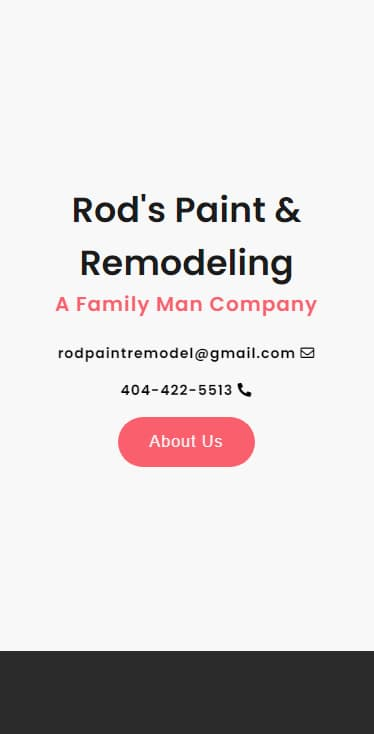
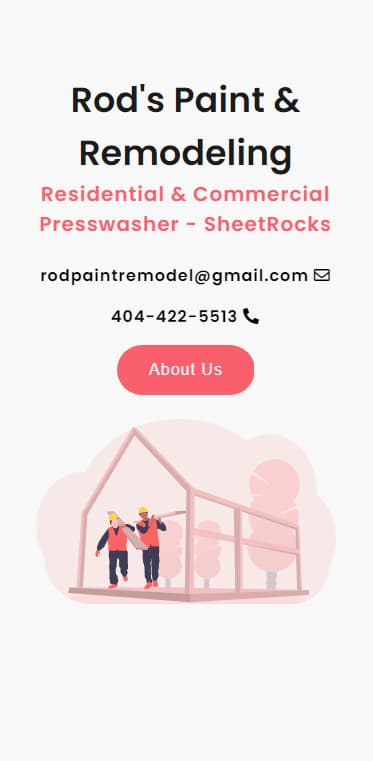
added Link to the official rod painting site. Fixed bug with about section (it was weird layout when screen reached from 960pc-1250px. Replaced Rodpainting mobile site picture with a new updated one

diff --git a/scss/_layout.scss b/scss/_layout.scss
@@ -404,25 +404,25 @@ html {
   transform: translateY(80%) translateX(80%);
 }
 
-.Card-1_container {
-  background: $black2;
-  color: $white;
+// .Card-1_container {
+//   background: $black2;
+//   color: $white;
+// 
+//   div {
+//     color: $white;
+//     h2 {
+//       color: inherit;
+//     }
 
-  div {
-    color: $white;
-    h2 {
-      color: inherit;
-    }
-
-    p {
-      color: $white;
-      font-weight: weight(regular);
-    }
-    a {
-      color: inherit;
-    }
-  }
-}
+//     p {
+//       color: $white;
+//       font-weight: weight(regular);
+//     }
+//     a {
+//       color: inherit;
+//     }
+//   }
+// }
 
 .Button-div {
   list-style: none;
@@ -537,7 +537,7 @@ html {
   }
 
   .Card-1 {
-    background: url("/images/RodpaintPhoneComp.jpg");
+    background: url("/images/RodPhone.png");
     background-size: cover;
   }
 
@@ -737,7 +737,7 @@ html {
 }
 
 /* ____________________________ Mid-size tablet Screen Size */
-@media (max-width: 868px) {
+@media (max-width: 1250px) {
   .About {
     padding: 15rem 3rem;
   }

diff --git a/dist/css/main.css b/dist/css/main.css
@@ -602,28 +602,6 @@ html {
           transform: translateY(80%) translateX(80%);
 }
 
-.Card-1_container {
-  background: #2b2b2b;
-  color: whitesmoke;
-}
-
-.Card-1_container div {
-  color: whitesmoke;
-}
-
-.Card-1_container div h2 {
-  color: inherit;
-}
-
-.Card-1_container div p {
-  color: whitesmoke;
-  font-weight: 400;
-}
-
-.Card-1_container div a {
-  color: inherit;
-}
-
 .Button-div {
   list-style: none;
   display: -webkit-box;
@@ -746,7 +724,7 @@ html {
     padding: 8rem 4rem;
   }
   .Card-1 {
-    background: url("/images/RodpaintPhoneComp.jpg");
+    background: url("/images/RodPhone.png");
     background-size: cover;
   }
   .Card-2 {
@@ -928,7 +906,7 @@ html {
 }
 
 /* ____________________________ Mid-size tablet Screen Size */
-@media (max-width: 868px) {
+@media (max-width: 1250px) {
   .About {
     padding: 15rem 3rem;
   }

diff --git a/index.html b/index.html
@@ -82,7 +82,7 @@
                 <div class="Button-div">
                     <li class="Card-button"><a href="https://github.com/OscarViquez/RodpaintV2"
                             class="Card-button-link"><i class="fab fa-github-alt Card-button-icon"></i></a></li>
-                    <li class="Card-button"><a href="https://oscarviquez.github.io/RodpaintV2/" class="Card-button-link"><i
+                    <li class="Card-button"><a href="https://rodpaintremodel.com/" class="Card-button-link"><i
                                 class="fas fa-link"></i></a>
                     </li>
                     <li class="Card-button"><a href="https://rodpaintremodel.com/" class="Card-button-link"><i
